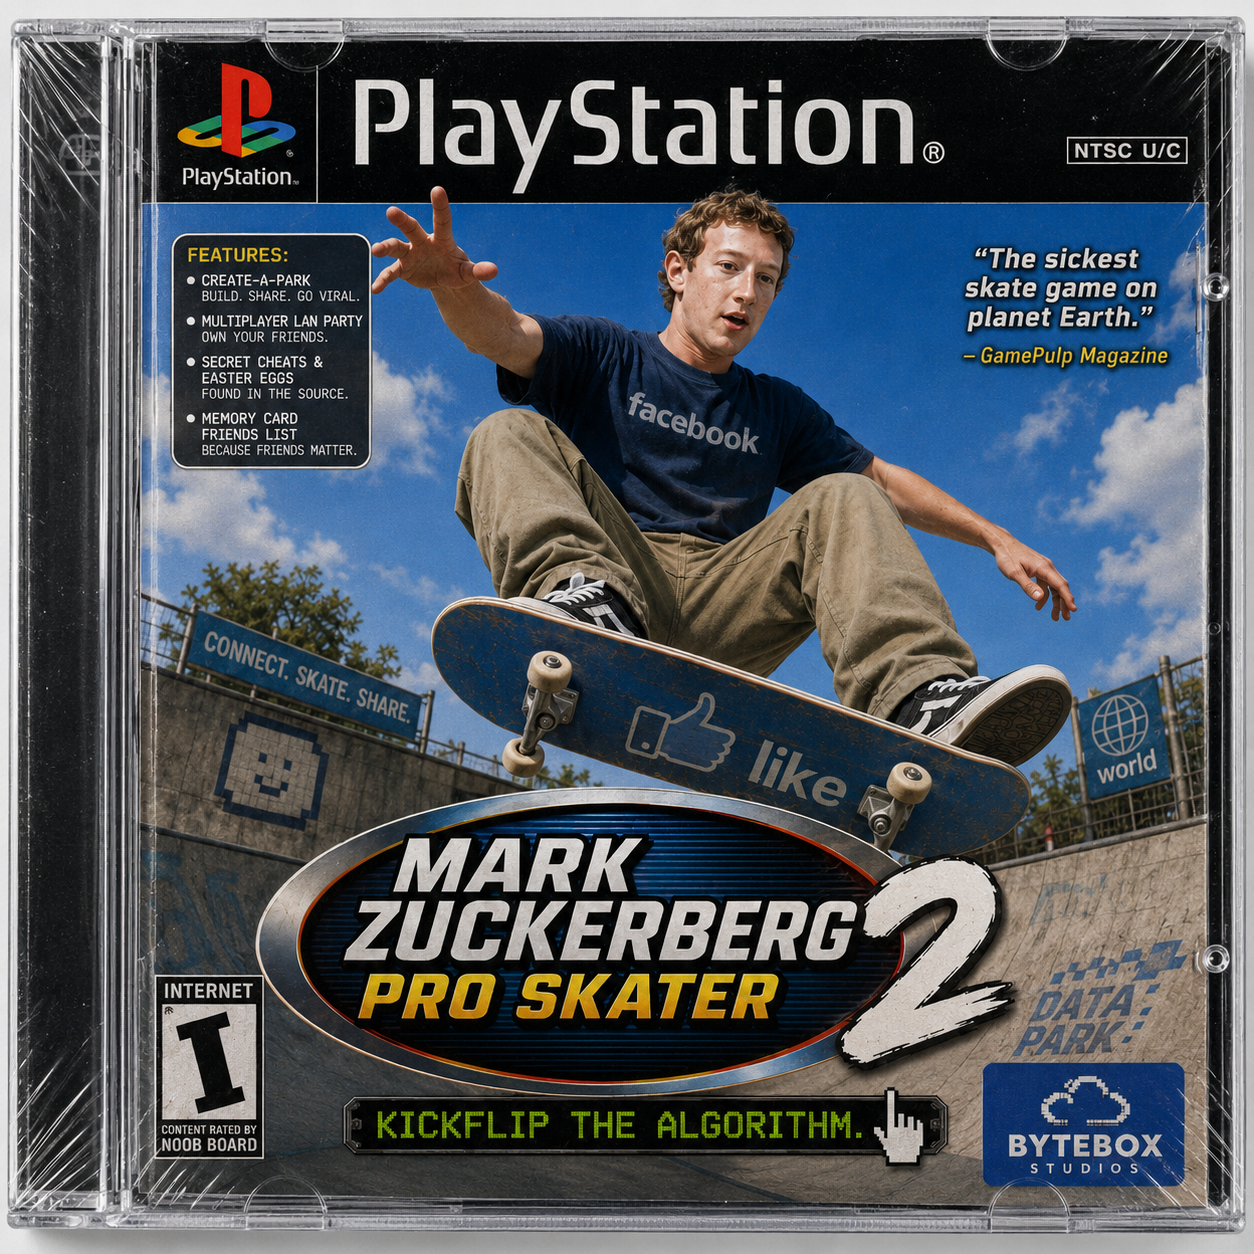
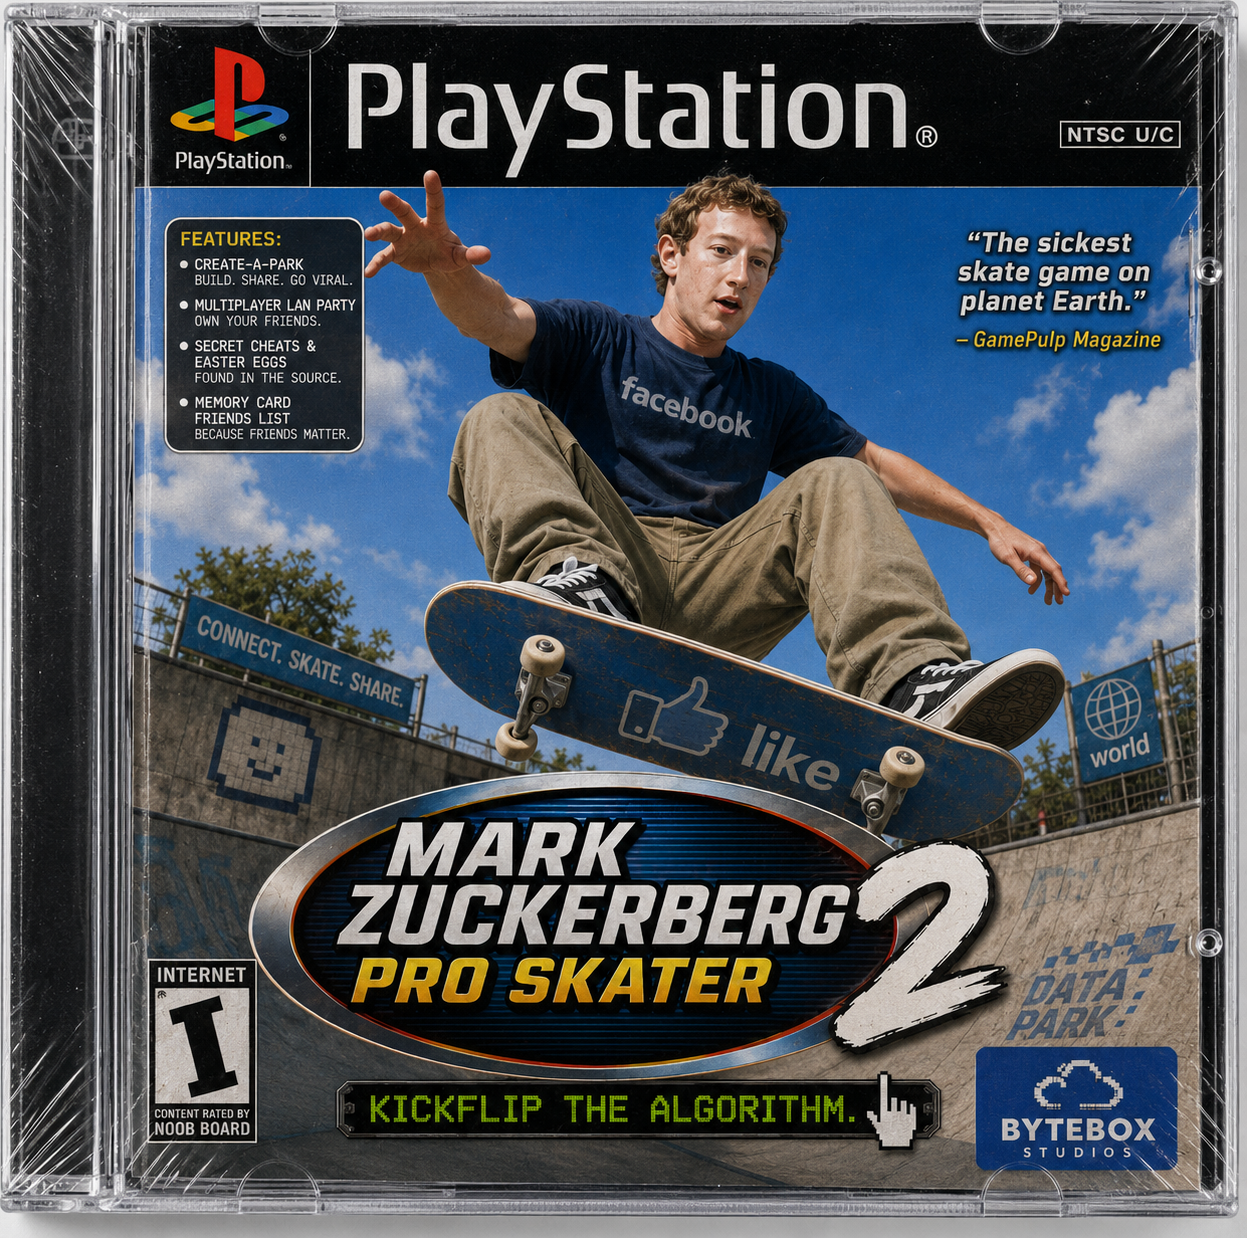
Crop joke PlayStation album art

diff --git a/albums.html b/albums.html
@@ -211,7 +211,7 @@ description: Favorite albums from GNARGNARHEAD's cyber shrine, shown as clickabl
               </div>
               <div class="albumCard">
                 <a class="albumLink" href="photos/Albums/ChatGPT%20Image%20May%2011%2C%202026%2C%2006_21_36%20PM.png" aria-label="Open PlayStation game case filed as an album cover">
-                  <img class="albumCover" src="photos/Albums/ChatGPT%20Image%20May%2011%2C%202026%2C%2006_21_36%20PM.png" alt="PlayStation game case filed among album covers" width="1254" height="1254" loading="lazy" decoding="async">
+                  <img class="albumCover" src="photos/Albums/ChatGPT%20Image%20May%2011%2C%202026%2C%2006_21_36%20PM.png" alt="PlayStation game case filed among album covers" width="1247" height="1238" loading="lazy" decoding="async">
                 </a>
               </div>
             </div>
